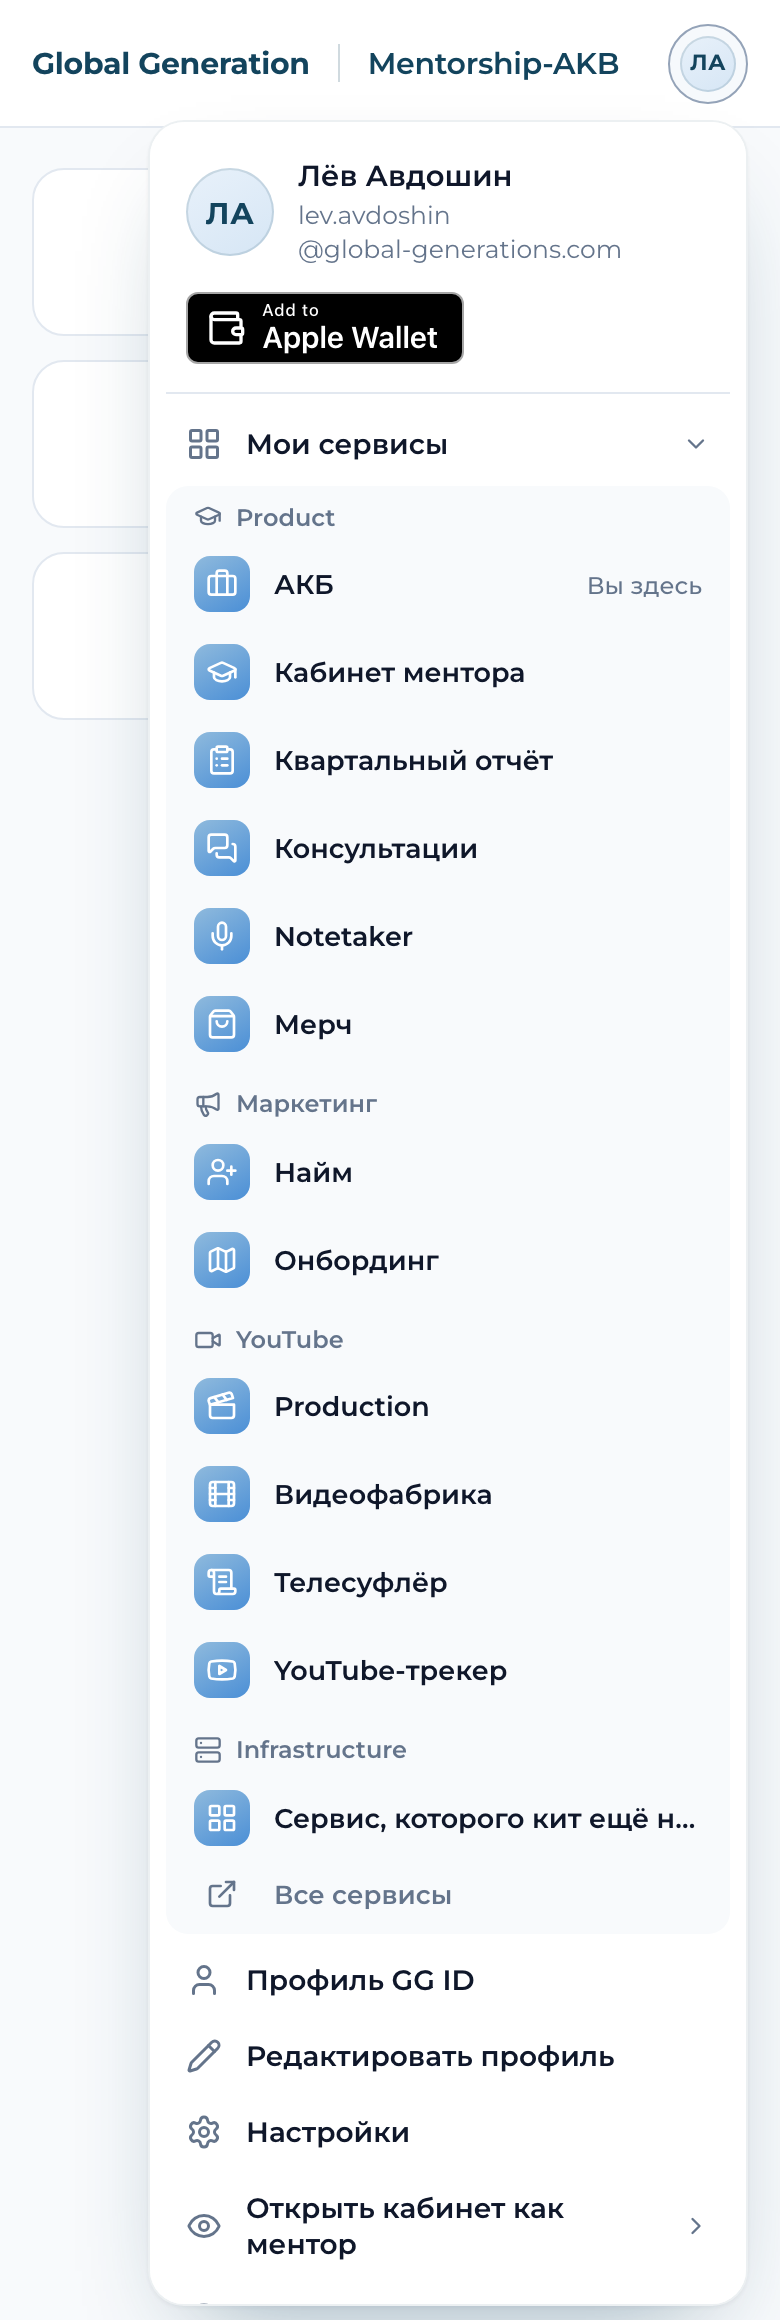
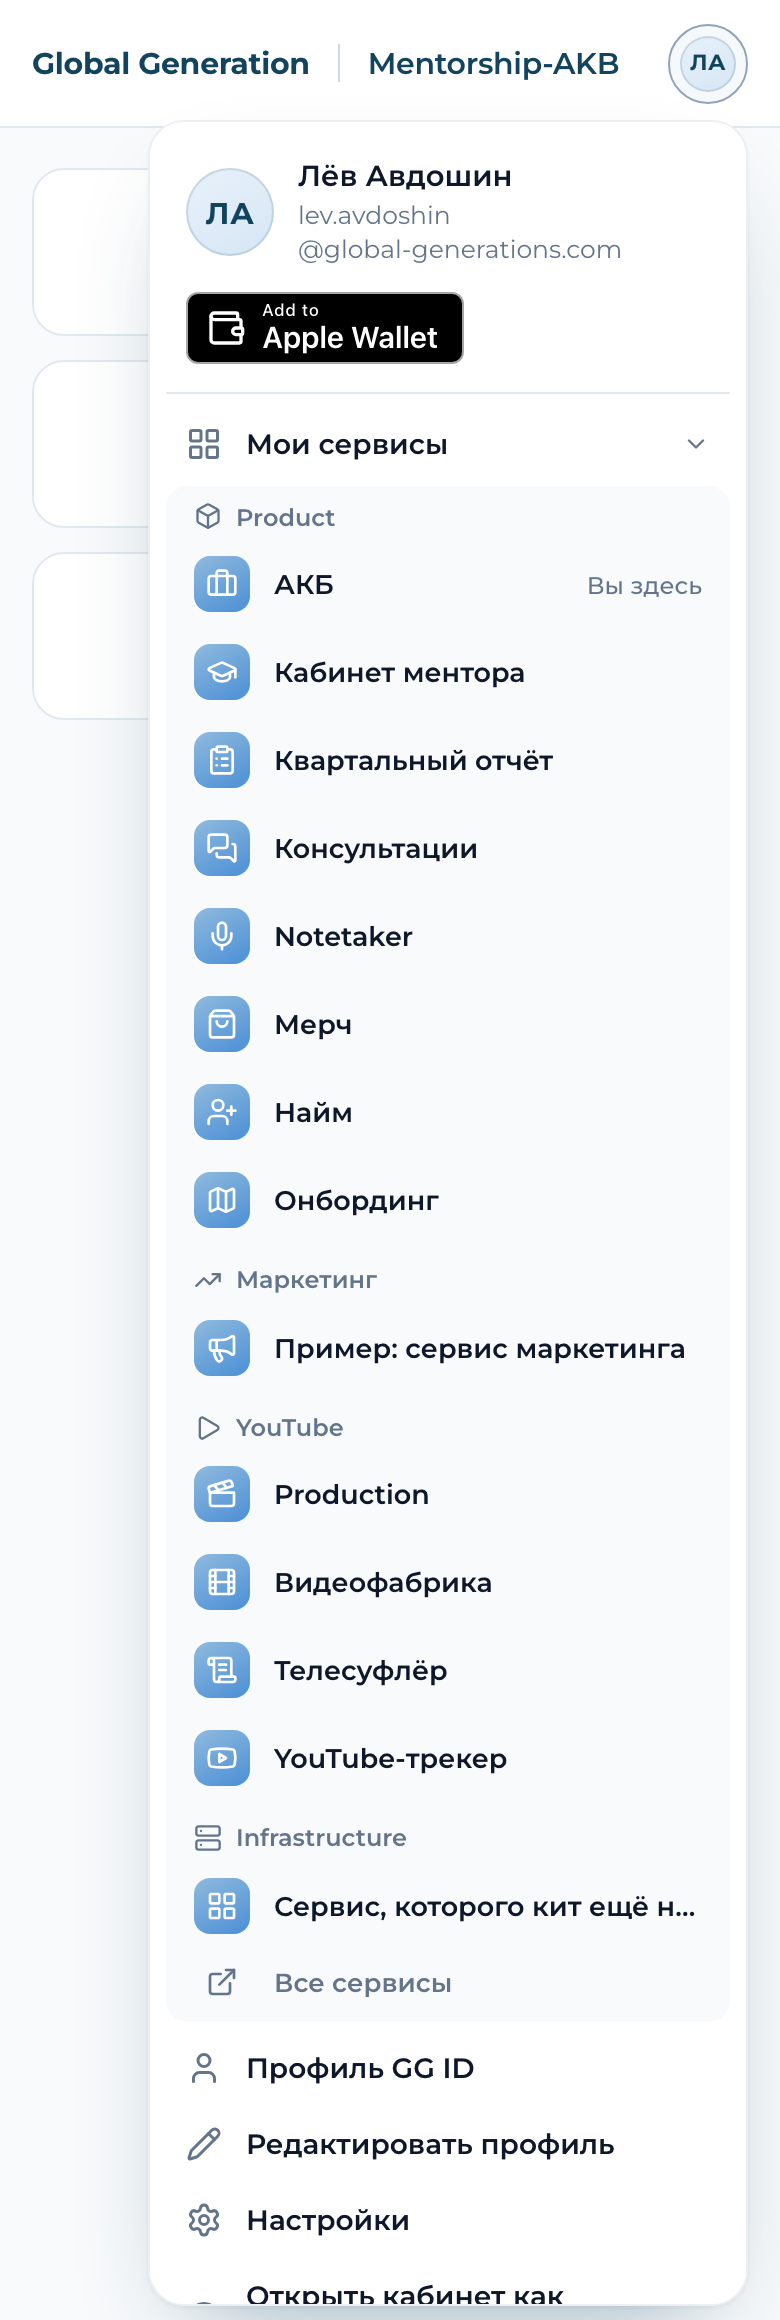
Account menu previews: retake the services and impersonation pictures
- services-desktop and services-390 show the four groups with their icons (the demo with ?groups=4, 14 rows), as the README says; the old pictures predated the group captions.
- imp-desktop and imp-390 are shot on a fixed clock (UTC 11:43, the demo ends the session 47 minutes later): the bar always says «до 12:30», and a retake of an unchanged bar is the same picture.
- README: the sample has 14 rows, the alt texts name what the pictures show.
- The other preview pictures differed only by antialiasing and stay as they were. The kit code is unchanged, no new kit version.

diff --git a/src/check_account_menu.py b/src/check_account_menu.py
@@ -2186,7 +2186,8 @@ def pictures(b):
     for name, embed, state, expand, (w, h), clip, avatar in shots:
         ctx = b.new_context(viewport={'width': w, 'height': h}, device_scale_factor=2)
         pg = ctx.new_page()
-        pg.goto(f'{svc}/gg-id/account-menu/demo.html?embed={embed}&state={state}&open=1&avatar={avatar}')
+        # an open list adds the sample service of Маркетинг (?groups=4): the pictures show all four captions, as the README says
+        pg.goto(f'{svc}/gg-id/account-menu/demo.html?embed={embed}&state={state}&open=1&avatar={avatar}' + ('&groups=4' if expand else ''))
         pg.wait_for_function('window.GGAccountMenu !== undefined')
         pg.evaluate('document.fonts.ready.then(() => 1)')
         if avatar == 'photo':
@@ -2203,8 +2204,11 @@ def pictures(b):
         pg.screenshot(path=os.path.join(OUT, 'picture-' + name), **({'clip': clip} if clip else {}))
         ctx.close()
     for name, embed, (w, h) in (('imp-desktop.png', 'desktop', (1440, 300)), ('imp-390.png', 'phone', (390, 330))):
-        ctx = b.new_context(viewport={'width': w, 'height': h}, device_scale_factor=2)
+        # the demo ends the session 47 minutes from now: a fixed clock and zone make the bar say «до 12:30» in every run,
+        # so a new shot of an unchanged bar is the same picture
+        ctx = b.new_context(viewport={'width': w, 'height': h}, device_scale_factor=2, timezone_id='UTC')
         pg = ctx.new_page()
+        pg.clock.set_fixed_time(datetime.datetime(2026, 10, 15, 11, 43, tzinfo=datetime.timezone.utc))
         pg.goto(f'{svc}/gg-id/account-menu/demo.html?embed={embed}&state=ok&imp=on&avatar=initials')
         pg.wait_for_function('window.GGAccountMenu !== undefined')
         pg.evaluate('document.fonts.ready.then(() => 1)')

diff --git a/gg-id/account-menu/README.md b/gg-id/account-menu/README.md
@@ -6,9 +6,9 @@
 
 ![Меню аккаунта: чип, карточка со значком Apple Wallet, «Мои сервисы», «Профиль GG ID», пункты сервиса, «Выйти»](preview/menu-desktop.png)
 
-«Мои сервисы» раскрыт: все сервисы человека подряд, без своей высоты и прокрутки внутри списка. На картинке образец из 13 строк во всех четырёх группах (Product, Маркетинг, YouTube, Infrastructure), чтобы были видны все четыре заголовка; у настоящего человека сегодня заполнены Product и YouTube (у администратора 12 строк: 8 и 4), пустая группа не рисуется. Слева компьютер, справа телефон 390 px.
+«Мои сервисы» раскрыт: все сервисы человека подряд, без своей высоты и прокрутки внутри списка. На картинке образец из 14 строк во всех четырёх группах (Product, Маркетинг, YouTube, Infrastructure; строка «Пример: сервис маркетинга» добавлена ради заголовка «Маркетинг», демо `?groups=4`), чтобы были видны все четыре заголовка; у настоящего человека сегодня заполнены Product и YouTube (у администратора 12 строк: 8 и 4), пустая группа не рисуется. Слева компьютер, справа телефон 390 px.
 
-<p><img src="preview/services-desktop.png" alt="Мои сервисы раскрыт на компьютере: все 13 сервисов, «Все сервисы», «Профиль GG ID», пункты сервиса, «Выйти»" width="400"> <img src="preview/services-390.png" alt="Мои сервисы раскрыт на телефоне 390 px: карточка 300 px внутри экрана, все 13 сервисов подряд" width="390"></p>
+<p><img src="preview/services-desktop.png" alt="Мои сервисы раскрыт на компьютере: все 14 сервисов в четырёх группах, «Все сервисы», «Профиль GG ID», пункты сервиса" width="400"> <img src="preview/services-390.png" alt="Мои сервисы раскрыт на телефоне 390 px: карточка 300 px внутри экрана, все 14 сервисов подряд в четырёх группах" width="390"></p>
 
 Аватар: на картинках выше круг с инициалами (человек не выбирал фото или оно не пришло). С фото то же меню выглядит так (картинка образец, не настоящий человек), размеры круга те же:
 
